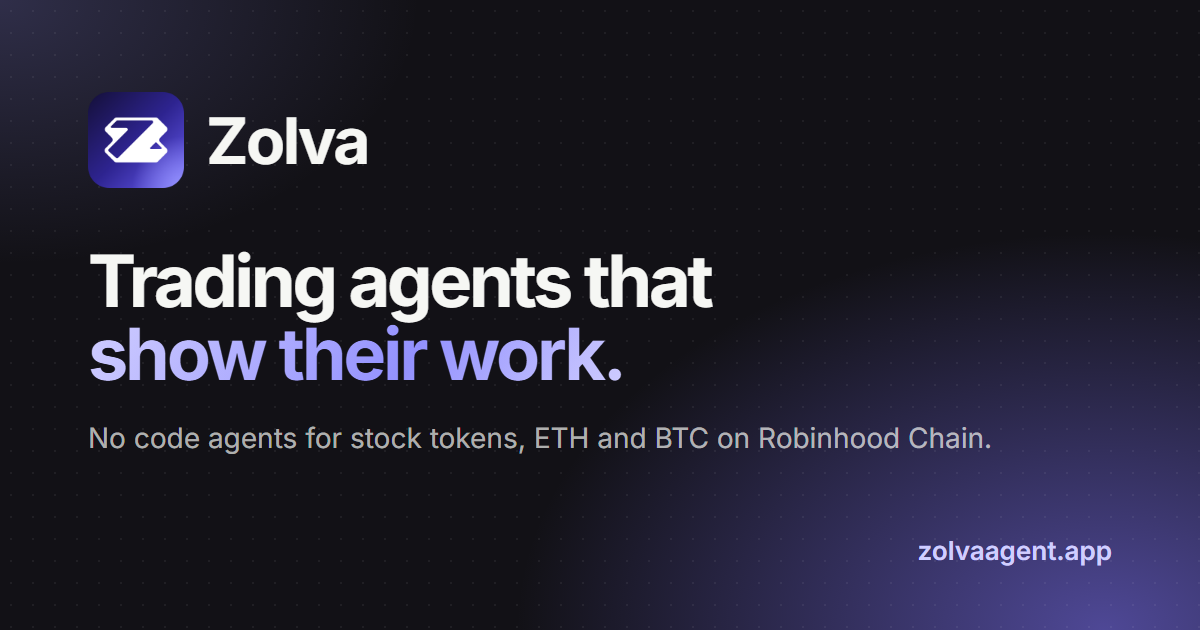
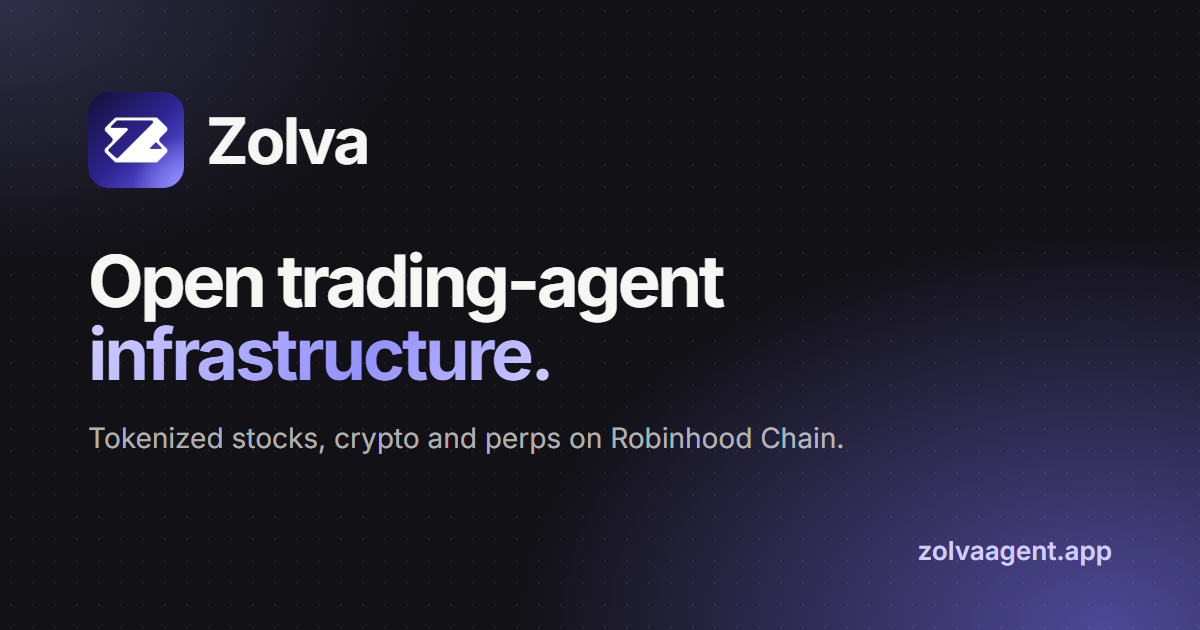
Site title, description and share image: open trading-agent infrastructure on Robinhood Chain

Changed region(s): [[0.0617, 0.3921, 0.6167, 0.6032], [0.0617, 0.6635, 0.8325, 0.7238]]

diff --git a/app/layout.tsx b/app/layout.tsx
@@ -15,9 +15,9 @@ export const metadata: Metadata = {
   // Absolute URLs in share cards point at the main domain.
   metadataBase: new URL("https://zolvaagent.app"),
   // The home tab reads "Zolva | <slogan>"; other pages stay "<page> · Zolva".
-  title: { default: "Zolva | Trading agents that show their work", template: "%s · Zolva" },
+  title: { default: "Zolva | Open trading-agent infrastructure on Robinhood Chain", template: "%s · Zolva" },
   description:
-    "Build a trading agent in plain words. It trades stock tokens, ETH and BTC on Robinhood Chain and explains every decision. Paper trading, no code.",
+    "Explore tokenized stocks, crypto, and perps. Build strategies, replay them against hourly market history, and inspect every paper-trading decision.",
   applicationName: "Zolva",
   icons: {
     // Logo set from scripts/render-brand.mjs; the SVG stays sharp at every tab size.
@@ -33,15 +33,15 @@ export const metadata: Metadata = {
     type: "website",
     siteName: "Zolva",
     url: "/",
-    title: "Zolva | Trading agents that show their work",
-    description: "No code trading agents for stock tokens, ETH and BTC on Robinhood Chain. Every decision explained.",
-    images: [{ url: "/og.png", width: 1200, height: 630, alt: "Zolva: trading agents that show their work" }],
+    title: "Zolva | Open trading-agent infrastructure on Robinhood Chain",
+    description: "Explore tokenized stocks, crypto, and perps. Build strategies, replay them against hourly market history, and inspect every paper-trading decision.",
+    images: [{ url: "/og.png", width: 1200, height: 630, alt: "Zolva: open trading-agent infrastructure on Robinhood Chain" }],
   },
   twitter: {
     card: "summary_large_image",
     site: "@zolva_agent",
-    title: "Zolva | Trading agents that show their work",
-    description: "No code trading agents for stock tokens, ETH and BTC on Robinhood Chain. Every decision explained.",
+    title: "Zolva | Open trading-agent infrastructure on Robinhood Chain",
+    description: "Explore tokenized stocks, crypto, and perps. Build strategies, replay them against hourly market history, and inspect every paper-trading decision.",
     images: ["/og.png"],
   },
 };

diff --git a/assets/brand/og-image.html b/assets/brand/og-image.html
@@ -36,8 +36,8 @@
     <div class="dots"></div>
     <div class="wrap">
       <div class="brand"><img src="../../public/img/brand/zolva-mark.png" alt="" /><span>Zolva</span></div>
-      <h1>Trading agents that<br /><em>show their work.</em></h1>
-      <p>No code agents for stock tokens, ETH and BTC on Robinhood Chain.</p>
+      <h1>Open trading-agent<br /><em>infrastructure.</em></h1>
+      <p>Tokenized stocks, crypto and perps on Robinhood Chain.</p>
     </div>
     <span class="url">zolvaagent.app</span>
   </body>
